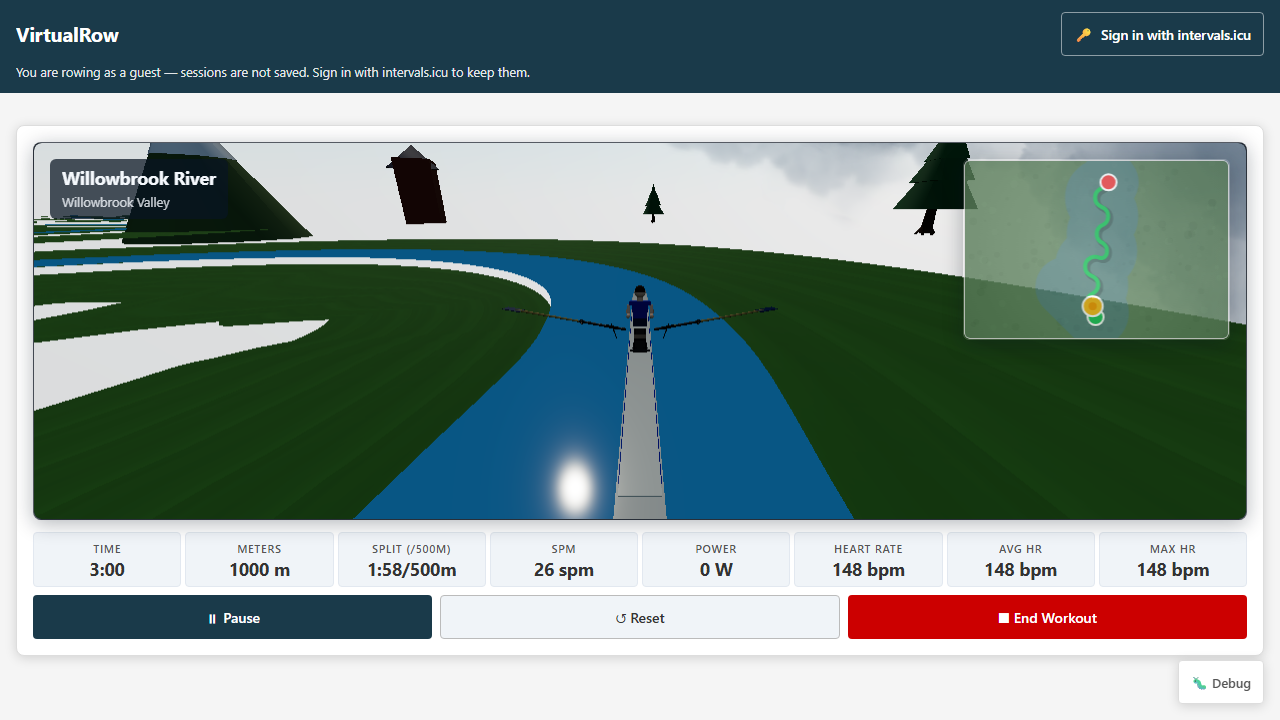
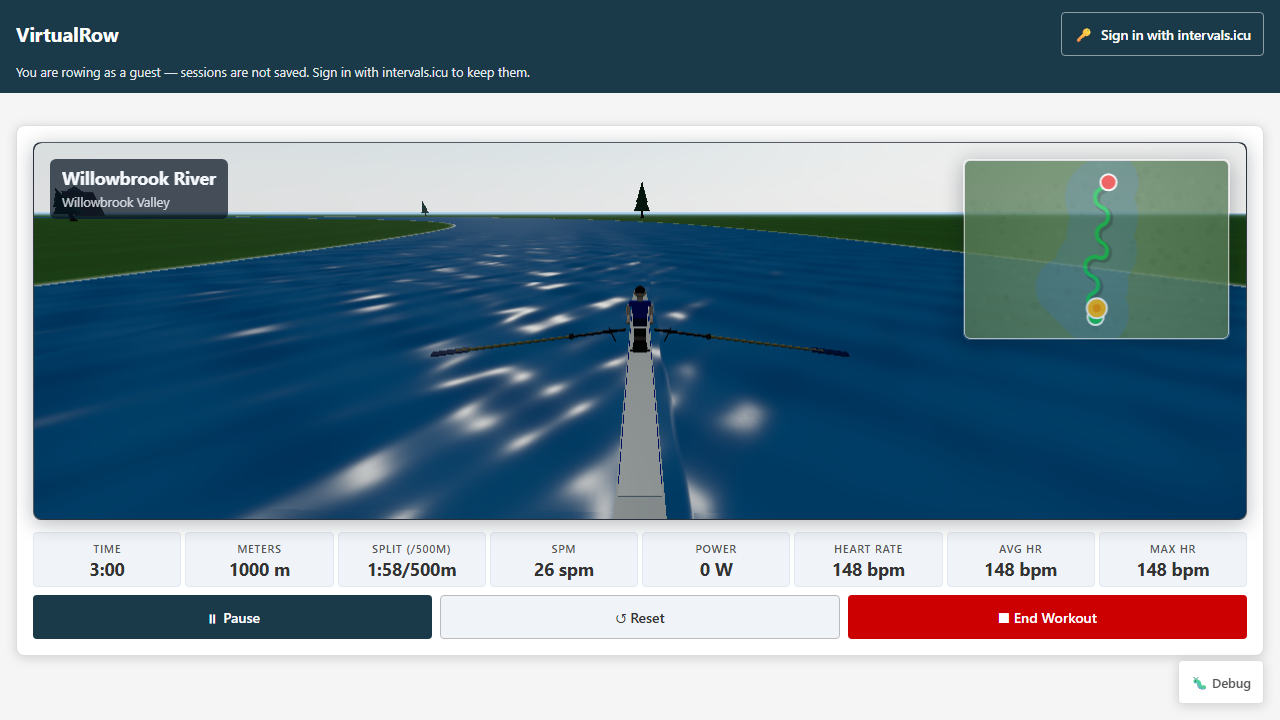
Give every worker its own simulator, and let CI run two of them
`workers: 1` in CI, since whenever it was written, with the reason in the
config header: "single worker to avoid port conflicts". It was a real
reason. The PM5 simulator broadcasts every message to every socket
connected to it - that is what lets a spec drive a whole session from
outside the page - so two tests sharing one server would feed each
other's rowers. A test would fail claiming the boat was doing something
it was not told to do, which reads as a physics bug rather than a test
one, and that is the worst kind of failure to leave lying about.

A server per worker settles it. Playwright hands each worker a stable
`parallelIndex` for exactly this, so the ports are derived rather than
negotiated and two workers cannot pick the same pair. Worker zero keeps
9001/9002, so every script, README and stale terminal in the repository
still points at the right place, and a single-worker run looks exactly as
it did.

The page needed the same numbers, and twenty-six spec files inject
`mock-bluetooth.js`. Rather than a port every one of them had to remember
- which is a port one of them would forget - the fixture every spec
already imports publishes `window.__SIM_PORTS` before any page script
runs, and the mock reads it. The mock still defaults to 9001/9002, so a
page opened by hand finds the simulator where it always was.

The workflow no longer starts a shared simulator: it would have been
sitting on worker zero's ports when that worker tried to start its own.
[…]

diff --git a/playwright/tests/sim-ports.spec.ts b/playwright/tests/sim-ports.spec.ts
@@ -1,0 +1,70 @@
+import { test, expect } from '../fixtures/crash-watch';
+import {
+  SIM_PORTS_PER_WORKER,
+  SIM_WS_BASE_PORT,
+  simPortsForWorker,
+  simPortsForWorkers,
+} from '../utils/simPorts';
+
+/**
+ * The arithmetic behind one simulator per worker.
+ *
+ * It lives here rather than under `src/__tests__` because `vitest.config.ts`
+ * excludes `playwright/**` — this is test infrastructure, not application
+ * code. These cases open no browser and cost milliseconds; what they buy is
+ * that two workers can never be handed the same port, which is the one way
+ * this change could go wrong quietly. A clash would surface as a rower being
+ * driven by someone else's test, and that reads as a physics bug.
+ */
+test.describe('simulator ports', () => {
+  test('gives the first worker the ports everything already expects', () => {
+    expect(simPortsForWorker(0)).toEqual({ ws: 9001, http: 9002 });
+  });
+
+  test('never hands two workers the same port', () => {
+    const seen = new Set<number>();
+    for (let worker = 0; worker < 32; worker += 1) {
+      const { ws, http } = simPortsForWorker(worker);
+      expect(seen.has(ws), `worker ${worker} reuses ws port ${ws}`).toBe(false);
+      expect(seen.has(http), `worker ${worker} reuses http port ${http}`).toBe(false);
+      seen.add(ws);
+      seen.add(http);
+    }
+  });
+
+  // `sim-server.js` serves its HTTP control endpoint on the port above the
+  // WebSocket one, so a worker owns a pair and the next worker has to start
+  // past it.
+  test('leaves room for the HTTP endpoint above each WebSocket port', () => {
+    const first = simPortsForWorker(0);
+    const second = simPortsForWorker(1);
+
+    expect(first.http).toBe(first.ws + 1);
+    expect(second.ws).toBeGreaterThan(first.http);
+    expect(second.ws - first.ws).toBe(SIM_PORTS_PER_WORKER);
+  });
+
+  test('starts where the simulator has always started', () => {
+    expect(simPortsForWorker(0).ws).toBe(SIM_WS_BASE_PORT);
+  });
+
+  // Playwright's `workerIndex` is always a non-negative integer, but this is
+  // the kind of helper that ends up called with whatever a caller has.
+  test('treats nonsense as the first worker rather than a negative port', () => {
+    for (const input of [-1, -100, Number.NaN, Number.POSITIVE_INFINITY]) {
+      expect(simPortsForWorker(input), `${input} produced a bad port`).toEqual({
+        ws: 9001,
+        http: 9002,
+      });
+    }
+  });
+
+  test('rounds a fractional index rather than inventing a fractional port', () => {
+    expect(simPortsForWorker(2.7)).toEqual(simPortsForWorker(2));
+  });
+
+  test('lists every port a run will occupy, so a cleanup step can clear them', () => {
+    expect(simPortsForWorkers(3)).toEqual([9001, 9002, 9003, 9004, 9005, 9006]);
+    expect(simPortsForWorkers(0)).toEqual([]);
+  });
+});

diff --git a/playwright/mock-bluetooth.js b/playwright/mock-bluetooth.js
@@ -1,8 +1,18 @@
 (function () {
   // Indicate we're running inside Playwright test harness so app exposes test hooks
   try { window.__PLAYWRIGHT_TESTING = true; } catch (e) { /* ignore */ }
-  // Connect to simulator WS
-  const port = 9001;
+  // Connect to simulator WS.
+  //
+  // The ports come from the worker that opened this page, not from a constant:
+  // the suite runs several workers now, and each has a simulator of its own
+  // because the server broadcasts every message to every socket connected to
+  // it (see playwright/utils/simPorts.ts). The defaults are worker zero's, so
+  // a page opened by hand still finds the simulator where it always was.
+  const simPorts = (window.__SIM_PORTS && typeof window.__SIM_PORTS === 'object')
+    ? window.__SIM_PORTS
+    : { ws: 9001, http: 9002 };
+  const port = Number(simPorts.ws) || 9001;
+  const httpPort = Number(simPorts.http) || 9002;
   const ws = new WebSocket(`ws://localhost:${port}`);
   ws.addEventListener('open', () => console.log('Simulator WS connected'));
   ws.addEventListener('message', (ev) => {
@@ -259,7 +269,7 @@
     startSequence: async (id, sequence) => {
       // POST to control HTTP endpoint to start a sequence on the simulator
       try {
-        await fetch(`http://localhost:9002/sequence`, {
+        await fetch(`http://localhost:${httpPort}/sequence`, {
           method: 'POST',
           headers: { 'Content-Type': 'application/json' },
           body: JSON.stringify({ id, sequence }),
@@ -273,7 +283,7 @@
     startRoute: async (id, options) => {
       // options: { distance, step, startHr, endHr, msPerStep }
       try {
-        await fetch(`http://localhost:9002/route`, {
+        await fetch(`http://localhost:${httpPort}/route`, {
           method: 'POST',
           headers: { 'Content-Type': 'application/json' },
           body: JSON.stringify({ id, ...options }),
@@ -286,7 +296,7 @@
     },
     startFtmsRoute: async (id, options) => {
       try {
-        await fetch(`http://localhost:9002/ftms/route`, {
+        await fetch(`http://localhost:${httpPort}/ftms/route`, {
           method: 'POST',
           headers: { 'Content-Type': 'application/json' },
           body: JSON.stringify({ id, ...options }),
@@ -299,7 +309,7 @@
     },
     stopSequence: async (id) => {
       try {
-        await fetch(`http://localhost:9002/sequence/stop/${id}`, { method: 'POST' });
+        await fetch(`http://localhost:${httpPort}/sequence/stop/${id}`, { method: 'POST' });
         return true;
       } catch (e) {
         console.error('Failed to stop sequence', e);

diff --git a/playwright/utils/simPorts.ts b/playwright/utils/simPorts.ts
@@ -1,0 +1,52 @@
+/**
+ * Which ports a worker's PM5 simulator listens on.
+ *
+ * The simulator broadcasts every message to every socket connected to it —
+ * that is what makes it useful, since a test can drive a whole session from
+ * outside the page. It is also why the suite ran `workers: 1` for years: two
+ * tests sharing one server would feed each other's rowers, and the failure
+ * would look like a physics bug rather than a test one.
+ *
+ * A server per worker settles it. Playwright hands every worker a stable
+ * `workerIndex`, so the ports can be derived rather than negotiated, and two
+ * workers can never pick the same pair.
+ */
+
+/** The first worker's WebSocket port — the number the simulator has always used. */
+export const SIM_WS_BASE_PORT = 9001;
+
+/**
+ * Ports reserved per worker.
+ *
+ * `sim-server.js` listens for WebSockets on the port it is given and serves
+ * its HTTP control endpoint on the one above, so a worker owns two.
+ */
+export const SIM_PORTS_PER_WORKER = 2;
+
+export interface SimPorts {
+  /** Where the page's mock BLE layer connects. */
+  ws: number;
+  /** Where a spec posts sequences and routes. */
+  http: number;
+}
+
+/**
+ * The ports for a worker.
+ *
+ * Worker 0 gets 9001/9002, which is what every script, README and stale
+ * terminal in this repository expects — so a single-worker run, and anyone
+ * reading the docs, sees exactly what they saw before.
+ */
+export const simPortsForWorker = (workerIndex: number): SimPorts => {
+  const safe = Number.isFinite(workerIndex) ? Math.max(0, Math.floor(workerIndex)) : 0;
+  const ws = SIM_WS_BASE_PORT + safe * SIM_PORTS_PER_WORKER;
+  return { ws, http: ws + 1 };
+};
+
+/** Every port a run of `count` workers will occupy, for a cleanup step to clear. */
+export const simPortsForWorkers = (count: number): number[] => {
+  const workers = Number.isFinite(count) ? Math.max(0, Math.floor(count)) : 0;
+  return Array.from({ length: workers }, (_, index) => simPortsForWorker(index)).flatMap(
+    ({ ws, http }) => [ws, http],
+  );
+};

diff --git a/playwright/fixtures/crash-watch.ts b/playwright/fixtures/crash-watch.ts
@@ -2,6 +2,7 @@ import { test as base, type Page, type TestInfo } from '@playwright/test';
 import { describeCrashEvidence } from '../../src/utils/crashEvidence';
 import { formatTelemetry } from '../../src/utils/sceneTelemetryLog';
 import type { TelemetryEvent } from '../../src/utils/sceneTelemetryLog';
+import { simPortsForWorker } from '../utils/simPorts';
 
 /**
  * Fail a spec whose renderer died, whether or not the spec was looking.
@@ -54,6 +55,17 @@ const readTelemetry = async (page: Page): Promise<TelemetryEvent[]> => {
 
 type CrashWatchFixtures = {
   /**
+   * Tell the page which simulator to talk to, before any of its scripts run.
+   *
+   * Auto-use and installed here rather than in each spec, because
+   * twenty-six spec files inject `mock-bluetooth.js` and a port every one of
+   * them had to remember would be a port one of them forgot. The mock reads
+   * `window.__SIM_PORTS` and falls back to worker zero's, so nothing breaks if
+   * this ever fails to run.
+   */
+  simPorts: void;
+
+  /**
    * Installed for every test, whether or not the test mentions it.
    *
    * Auto-use, because a guard nobody remembers to switch on is not a guard.
@@ -62,6 +74,21 @@ type CrashWatchFixtures = {
 };
 
 export const test = base.extend<CrashWatchFixtures>({
+  simPorts: [
+    async ({ page }, use, testInfo: TestInfo) => {
+      // `parallelIndex`, not `workerIndex`: it stays inside [0, workers) even
+      // after a worker is restarted, so a crash mid-run cannot walk the ports
+      // off into a range nothing cleans up. It is the same value
+      // `utils/sim-server.ts` starts this worker's simulator on.
+      const ports = simPortsForWorker(testInfo.parallelIndex);
+      await page.addInitScript((value) => {
+        (window as unknown as { __SIM_PORTS?: unknown }).__SIM_PORTS = value;
+      }, ports);
+      await use();
+    },
+    { auto: true },
+  ],
+
   crashWatch: [
     async ({ page }, use, testInfo: TestInfo) => {
       let crashEventFired = false;

diff --git a/playwright/tests/virtualrow.spec.ts b/playwright/tests/virtualrow.spec.ts
@@ -5,14 +5,25 @@ import { fileURLToPath } from 'url';
 import * as fs from 'fs';
 import { captureTestEvidence, captureErrorEvidence, highlightElement, annotateElement, clearAnnotations, captureGameplayCanvas } from '../utils/screenshot-helper';
 import { expectSceneAlive } from '../utils/scene-health';
+import { simPortsForWorker } from '../utils/simPorts';
 
 const __dirname = path.dirname(fileURLToPath(import.meta.url));
 const simServerPath = path.resolve(__dirname, '../simulators/sim-server.js');
 const mockBluetoothPath = path.resolve(__dirname, '../mock-bluetooth.js');
 
-// Read ports from environment variables with defaults
-const SIM_WS_PORT = parseInt(process.env.SIM_WS_PORT || '9001', 10);
-const SIM_HTTP_PORT = parseInt(process.env.SIM_HTTP_PORT || '9002', 10);
+// This worker's simulator ports, or whatever the environment insists on.
+//
+// This file still owns a second copy of the simulator's process management -
+// `utils/sim-server.ts` says as much in its own header - and consolidating it
+// is a change for its own commit. What matters here is that the copy agrees
+// with the original about which ports this worker owns, because a suite with
+// several workers has several simulators (playwright/utils/simPorts.ts).
+const workerSimPorts = simPortsForWorker(Number(process.env.TEST_PARALLEL_INDEX ?? 0));
+const SIM_WS_PORT = parseInt(process.env.SIM_WS_PORT || String(workerSimPorts.ws), 10);
+const SIM_HTTP_PORT = parseInt(
+  process.env.SIM_HTTP_PORT || String(workerSimPorts.http),
+  10,
+);
 
 let simProcess: child_process.ChildProcess;
 

diff --git a/playwright/playwright.config.ci.ts b/playwright/playwright.config.ci.ts
@@ -16,8 +16,23 @@ export default defineConfig({
   testMatch: '**/*.spec.ts',
   timeout: 160_000, // 160 seconds — CI machines are slower; route test has many async waits
   retries: 2,
-  // In CI, force single worker to avoid parallel servers and port conflicts
-  workers: process.env.CI ? 1 : undefined,
+  /**
+   * Two workers, where this was one for years.
+   *
+   * The reason it was one is in the header above - "single worker to avoid
+   * port conflicts" - and it was a real reason: the PM5 simulator broadcasts
+   * every message to every socket connected to it, so two tests sharing one
+   * server fed each other's rowers. That failure reads as a physics bug, not
+   * a test one, which is the worst kind to leave available.
+   *
+   * Each worker has its own simulator on its own ports now
+   * (playwright/utils/simPorts.ts), so the conflict is gone. Two rather than
+   * four because the 3D specs render through SwiftShader on the CPU, and a
+   * GitHub runner has four cores between the browsers, the simulators and the
+   * preview server - past two, workers mostly queue for the same cores and
+   * the timeouts start to matter.
+   */
+  workers: process.env.CI ? 2 : undefined,
   reporter: [['list'], ['html', { outputFolder: 'playwright-report', open: 'never' }]],
   // Same responsive matrix as the local config (issue #195). Rendering one
   // viewport in CI is what let the phone and short-landscape clipping through.

diff --git a/playwright/utils/sim-server.ts b/playwright/utils/sim-server.ts
@@ -1,6 +1,7 @@
 import * as child_process from 'child_process';
 import * as path from 'path';
 import { fileURLToPath } from 'url';
+import { simPortsForWorker } from './simPorts';
 
 /**
  * Lifecycle for the PM5/FTMS simulator that feeds the mock BLE layer.
@@ -18,8 +19,27 @@ import { fileURLToPath } from 'url';
 
 const __dirname = path.dirname(fileURLToPath(import.meta.url));
 
-export const SIM_WS_PORT = parseInt(process.env.SIM_WS_PORT || '9001', 10);
-export const SIM_HTTP_PORT = parseInt(process.env.SIM_HTTP_PORT || '9002', 10);
+/**
+ * This worker's simulator ports.
+ *
+ * `TEST_PARALLEL_INDEX` is the value Playwright provides for exactly this -
+ * allocating a resource per worker. It stays inside `[0, workers)` however
+ * many times a worker is restarted, which `TEST_WORKER_INDEX` does not, so a
+ * crash mid-run cannot walk the ports off into a range nothing cleans up.
+ *
+ * An explicit `SIM_WS_PORT` still wins, for anyone driving the simulator by
+ * hand.
+ */
+const workerPorts = simPortsForWorker(Number(process.env.TEST_PARALLEL_INDEX ?? 0));
+
+export const SIM_WS_PORT = parseInt(
+  process.env.SIM_WS_PORT || String(workerPorts.ws),
+  10,
+);
+export const SIM_HTTP_PORT = parseInt(
+  process.env.SIM_HTTP_PORT || String(workerPorts.http),
+  10,
+);
 
 const simServerPath = path.resolve(__dirname, '../simulators/sim-server.cjs');
 
